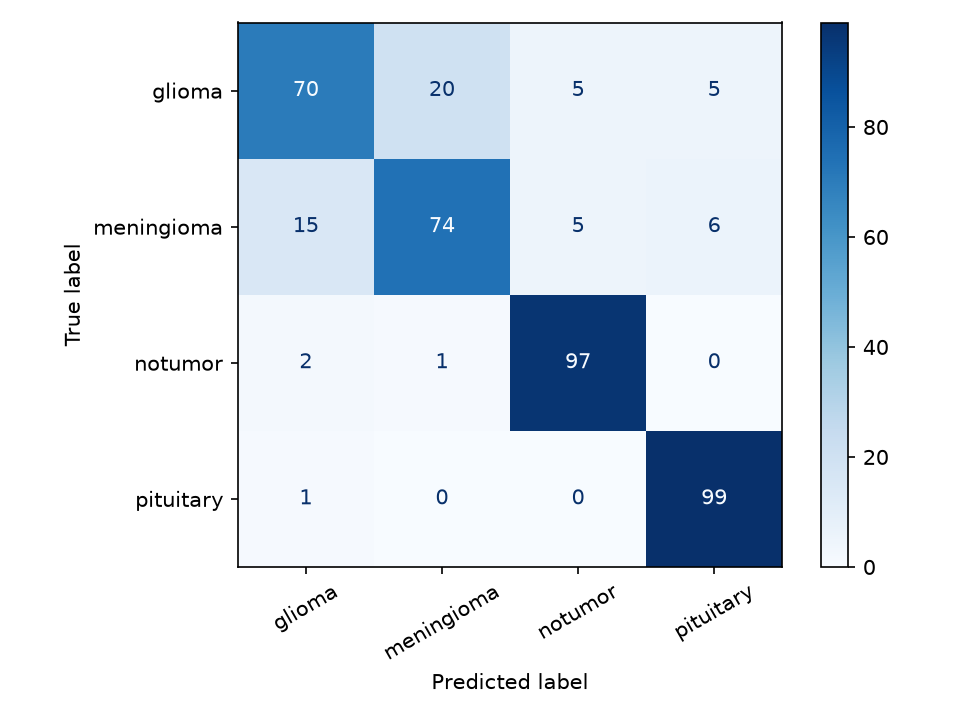
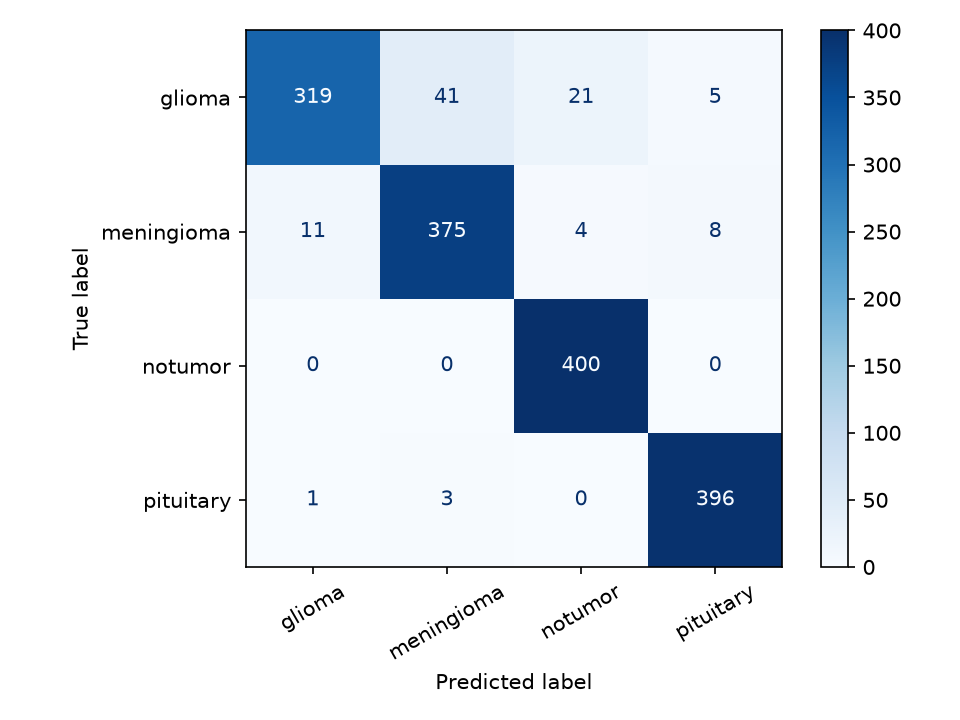
docs: add full-data evaluation results and per-class metrics

diff --git a/README.md b/README.md
@@ -170,3 +170,27 @@ model up at start-up and reports the time per prediction in the UI.
 ## License
 
 MIT, see [LICENSE](LICENSE).
+
+## Results
+
+Evaluated on 1,584 held-out test images (the Testing folder, never used for training).
+
+| Model | Test accuracy | Accuracy on accepted images | Coverage | Glioma recall |
+|---|---|---|---|---|
+| ResNet50V2, 1,200-image subset | 0.850 | 0.933 | 0.785 | 0.70 |
+| ResNet50V2, full training data | 0.941 | 0.966 | 0.936 | 0.826 |
+
+Uncertainty check: the mean uncertainty is 0.031 for correct predictions and 0.260 for wrong ones.
+With the entropy threshold at 0.28, the model answers 93.6% of images and deferred the rest for expert review.
+
+| Class | Images | Recall | Precision |
+|---|---|---|---|
+| glioma | 386 | 0.826 | 0.964 |
+| meningioma | 398 | 0.942 | 0.895 |
+| notumor | 400 | 1.000 | 0.941 |
+| pituitary | 400 | 0.990 | 0.968 |
+
+Plots are in the `results/` folder: confusion matrix, accuracy vs. coverage, uncertainty histogram.
+
+
+"Glioma is the weakest class. The threshold was tuned on validation data and gave 96.6% accuracy on accepted test images, below its 98% validation target"
